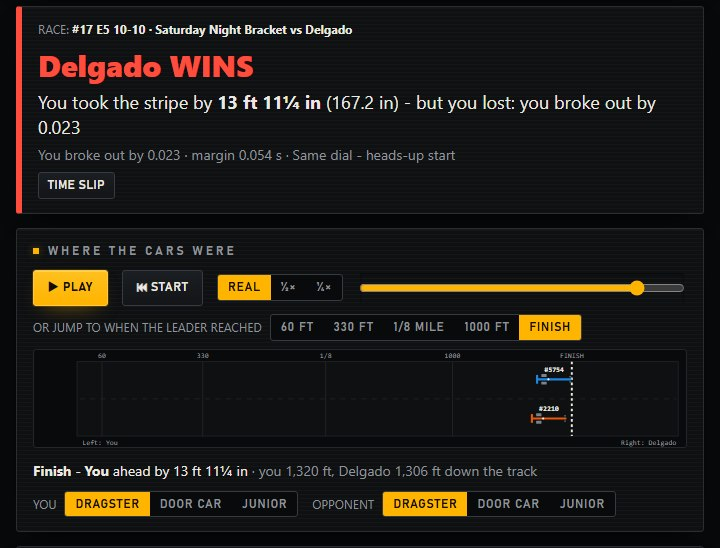
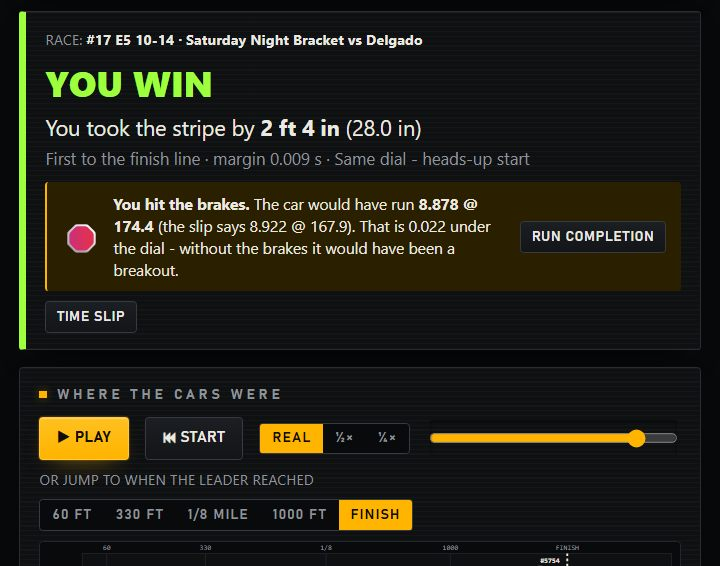
Website update 2026-10-15 09:19

diff --git a/index.html b/index.html
@@ -173,9 +173,19 @@ section::after{content:"";position:absolute;top:-4px;left:50%;width:8px;height:8
 .also-short b{color:var(--ink);font-weight:700}
 .shots{display:grid;grid-template-columns:1fr 1fr;gap:24px;align-items:start;margin-top:26px}
 .shots figure{margin:0}
-.shots figcaption{display:flex;flex-wrap:wrap;align-items:center;gap:6px 12px;margin-top:14px;font-size:14.5px;color:var(--mute)}
-.shots figcaption b{font:600 22px/1 var(--serif);color:var(--ink);letter-spacing:.01em}
+.shots figcaption,.rc figcaption{display:flex;flex-wrap:wrap;align-items:center;gap:6px 12px;margin-top:14px;font-size:14.5px;color:var(--mute)}
+.shots figcaption b,.rc figcaption b{font:600 22px/1 var(--serif);color:var(--ink);letter-spacing:.01em}
 .shots-note{margin-top:14px}
+.rc+.shots-note{margin-top:22px}
+/* Run Completion band: text beside one tall screenshot; stacks under 900px */
+.rc{margin:34px 0 0;padding-top:30px;border-top:1px solid var(--line-soft);display:grid;grid-template-columns:minmax(0,1fr) minmax(0,480px);gap:22px 56px;align-items:center}
+.rc figure{margin:0}
+.rc .rc-text{min-width:0}
+.rc .kicker .tag{padding:2px 7px;letter-spacing:.12em}
+.rc h3{font-size:32px;line-height:1.06;margin:0 0 16px}
+.rc p{margin:0 0 14px;color:var(--ink2);font-size:17px;line-height:1.6}
+.rc .rc-fine{margin:0;color:var(--mute);font-size:15px;line-height:1.55}
+.rc .frame.sm img{aspect-ratio:auto;height:auto;object-fit:fill}
 .fmsec{border-top:1px solid var(--line)}
 .fmgrid{display:grid;grid-template-columns:minmax(0,5fr) minmax(0,7fr);gap:44px;align-items:center}
 .fmgrid ul{list-style:none;margin:16px 0 0;padding:0;display:grid;gap:10px}
@@ -280,6 +290,7 @@ footer .made{margin:12px 0 0;font-size:14px;max-width:22em}
   .readouts li{padding:14px 18px;gap:12px}
   .readouts b{font-size:48px}
   .tile{padding-left:20px;padding-right:20px}
+  .rc{grid-template-columns:minmax(0,1fr) minmax(0,420px);gap:22px 36px}
   .looks{gap:14px}
   .pband{grid-template-columns:minmax(0,1.3fr) minmax(0,.7fr);gap:28px 40px}
   .pband .kitwrap{grid-column:1 / -1}
@@ -287,6 +298,8 @@ footer .made{margin:12px 0 0;font-size:14px;max-width:22em}
 @media (max-width:960px){
   section{padding:42px 0}
   .tiles{grid-template-columns:1fr 1fr;gap:30px 36px}
+  .rc{grid-template-columns:minmax(0,1fr);gap:20px}
+  .rc figure{max-width:560px}
   .tile,.tile.t1,.tile.t4{padding:18px 0 0;border-left:0;border-top:1px solid var(--line)}
   .wx{grid-template-columns:minmax(0,1.5fr) minmax(0,1fr);gap:12px 36px}
   .also{margin-top:8px;padding-top:8px}
@@ -361,6 +374,13 @@ footer .made{margin:12px 0 0;font-size:14px;max-width:22em}
   .shots figcaption>span:last-child:not(.tag){display:none}
   .shots figcaption b{font-size:20px}
   .shots-note{margin-top:8px}
+  .rc+.shots-note{margin-top:16px}
+  .rc{gap:18px;margin-top:24px;padding-top:20px}
+  .rc h3{font-size:26px;margin-bottom:10px}
+  .rc p{font-size:15.5px;line-height:1.55;margin-bottom:10px}
+  .rc .rc-fine{font-size:14px}
+  .rc figcaption{margin-top:12px}
+  .rc figcaption b{font-size:20px}
   .looks-head{margin-bottom:22px}
   .looks-head p .more{display:none}
   .looks{display:flex;overflow-x:auto;scroll-snap-type:x mandatory;scroll-padding:0 16px;gap:14px;margin:0 -16px;padding:14px 16px 10px;scrollbar-width:thin;scrollbar-color:rgba(255,180,0,.4) transparent}
@@ -445,7 +465,7 @@ section::after{transform:none;border-radius:0;width:9px;height:9px;margin-left:-
 .tile h3{font-size:21px}
 .wk,.wx h4,.also dt,.getR dt{font-family:var(--label)}
 .wx h3{font-size:25px}
-.shots figcaption b,.lname b{font:700 21px/1.05 var(--label);text-transform:uppercase;letter-spacing:.05em}
+.shots figcaption b,.rc figcaption b,.lname b{font:700 21px/1.05 var(--label);text-transform:uppercase;letter-spacing:.05em}
 .look .frame{border-radius:3px}
 .look .frame img{border-radius:1px}
 .look.here .frame{border-color:#ffb400;box-shadow:0 0 0 1px rgba(255,180,0,.35),0 0 40px -10px rgba(255,180,0,.5)}
@@ -738,7 +758,7 @@ SENT 2:41:15P #7</pre>
     <div class="tiles">
       <div class="tile t1"><div class="mark"><span class="ai"><span class="spark" aria-hidden="true"></span>AI</span></div><h3>AI-driven predictions</h3><p>Dial-in or throttle stop from your runs and the weather, with a confidence % on every dial-in. <span class="more">A Smart Blend weights the closest of five formulas. </span>The delay box comes from your last few runs' reactions, newest counted most, not from AI.</p></div>
       <div class="tile t2"><div class="mark"><span class="ai"><span class="spark" aria-hidden="true"></span>AI</span></div><h3>AI slip reading</h3><p>An AI text reader on your own device reads your time slip: both lanes and the win light, so the win or loss is filled in when the slip shows one. Numbers it isn't sure of are highlighted: check them before you save.</p></div>
-      <div class="tile t3"><div class="mark"><span class="tag">New</span></div><h3>Race Compare</h3><p>See who took the stripe and by how many feet and inches, estimated from the slips.<span class="more"> Watch both cars from above, or jump to any marker down the track.</span></p></div>
+      <div class="tile t3"><div class="mark"><span class="tag">New</span></div><h3>Race Compare</h3><p>See who took the stripe and by how many feet and inches, estimated from the slips.<span class="more"> Watch both cars from above, or jump to any marker down the track.</span> Braked at the end? Run Completion shows what the car would have run.</p></div>
       <div class="tile t4"><div class="mark"><span class="tag">New</span></div><h3>Know the field</h3><p>Type or paste the ladder and qualifying sheets posted at the track, or scan a ladder photo (new, still being tested: check every row).<span class="more"> It remembers each racer and how they run, and shows who you race next.</span></p></div>
     </div>
     <div class="wx" role="group" aria-label="Weather stations">
@@ -758,12 +778,25 @@ SENT 2:41:15P #7</pre>
     <p class="also-short"><b>Also:</b> class presets in ¼ or ⅛ mile; a built-in list of US drag strips, add your own if yours is missing; one computer runs up to 3 cars on one license.</p>
     <div class="shots" role="group" aria-label="Screenshots">
       <figure>
-        <div class="frame sm"><img src="img/finish.jpg" width="720" height="548" loading="lazy" alt="Race Compare: the result card saying Delgado wins, you took the stripe by 13 ft 11¼ in but broke out, and below it both cars at the finish line on the track chart."></div>
-        <figcaption><b>Race Compare</b><span>Who took the stripe, and who broke out</span></figcaption>
+        <div class="frame sm"><img src="img/finish.jpg" width="720" height="566" loading="lazy" alt="Race Compare: the result card saying you win, you took the stripe by 2 ft 4 in, and a brake box under it saying you hit the brakes and the car would have run 8.878 at 174.4 mph where the slip says 8.922 at 167.9, with the start of the track chart below."></div>
+        <figcaption><b>Race Compare</b><span>Who took the stripe, and did you brake</span></figcaption>
       </figure>
       <figure>
         <div class="frame sm"><img src="img/field.jpg" width="720" height="552" loading="lazy" alt="Posted sheets and the field: a ladder and two qualifying sheets added from the track, and a racers list with each racer's average reaction time, ET and speed."></div>
         <figcaption><b>The field</b><span>Every racer on the posted sheets</span></figcaption>
+      </figure>
+    </div>
+    <div class="rc" aria-labelledby="rc-h">
+      <div class="rc-text">
+        <div class="kicker">Run Completion<span class="tag">New</span></div>
+        <h3 id="rc-h">Braked at the stripe? <em class="gold">Count the run anyway.</em></h3>
+        <p>Race the stripe and you brake or lift near the end, so the slip shows a slower ET and a lower trap speed than the car really had. Dead On IQ checks each slip against your own earlier runs of that car and says if it looks like you braked.</p>
+        <p>You answer yes or no, and on a yes it works out the ET and MPH the car would have run, with a plus-or-minus. Those numbers go into your predictions at a lower weight, so a braked run does not teach it your car is slow. If the check is unsure of them, they are left out, and you can untick them yourself.</p>
+        <p class="rc-fine">It asks in a box on the Race Compare result, when you log a run, and in the run editor. You can say yes even if it did not notice. It needs four earlier full runs of the car on the same track length to work from. It is statistics on your own runs, not AI.</p>
+      </div>
+      <figure>
+        <div class="frame sm"><img src="img/complete.jpg" width="720" height="921" loading="lazy" alt="The Run Completion screen: you answered yes, I hit the brakes; a table of three checks against your normal runs, with trap speed 6.4 and 5.8 mph low and flagged as braking; then what the car would have run, ET 8.878 and 174.4 mph against a slip of 8.922 and 167.9 mph, and a tick box to use the completed numbers when learning your car."></div>
+        <figcaption><b>Run Completion</b><span>What the car would have run</span></figcaption>
       </figure>
     </div>
     <p class="foot shots-note"><span class="spark" aria-hidden="true"></span>Screens shown in the Pit Wall look.</p>
